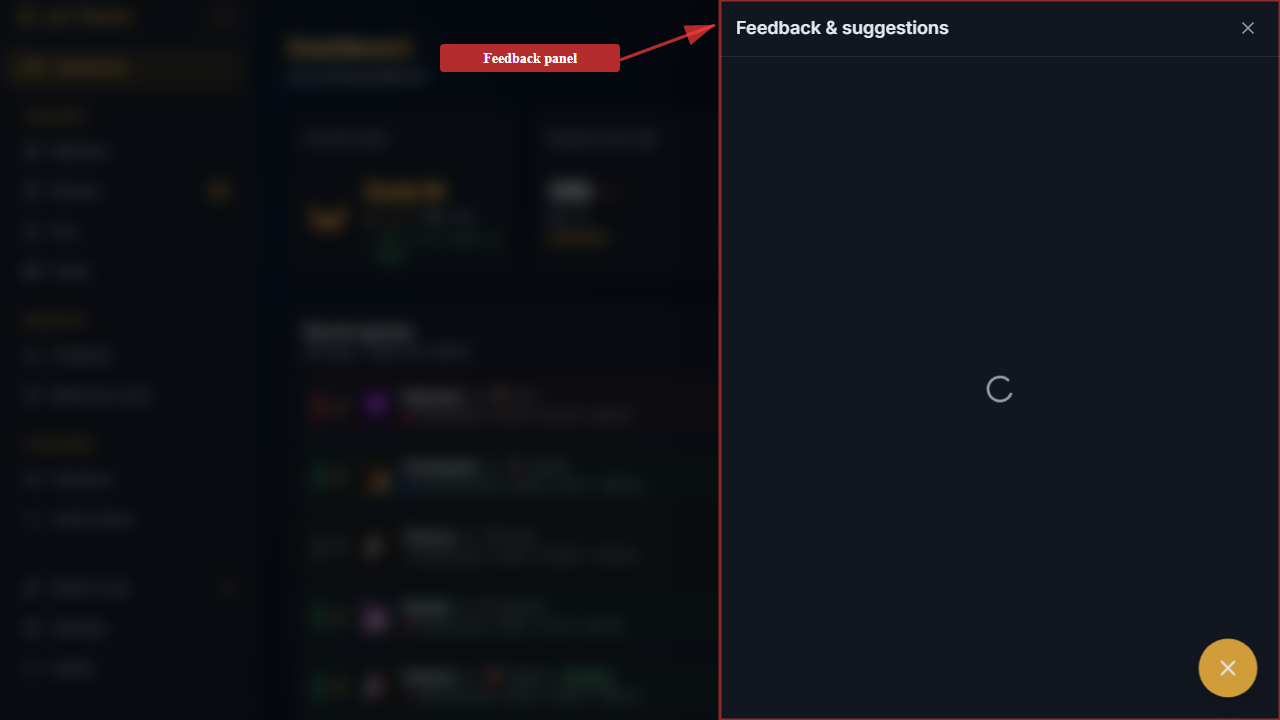
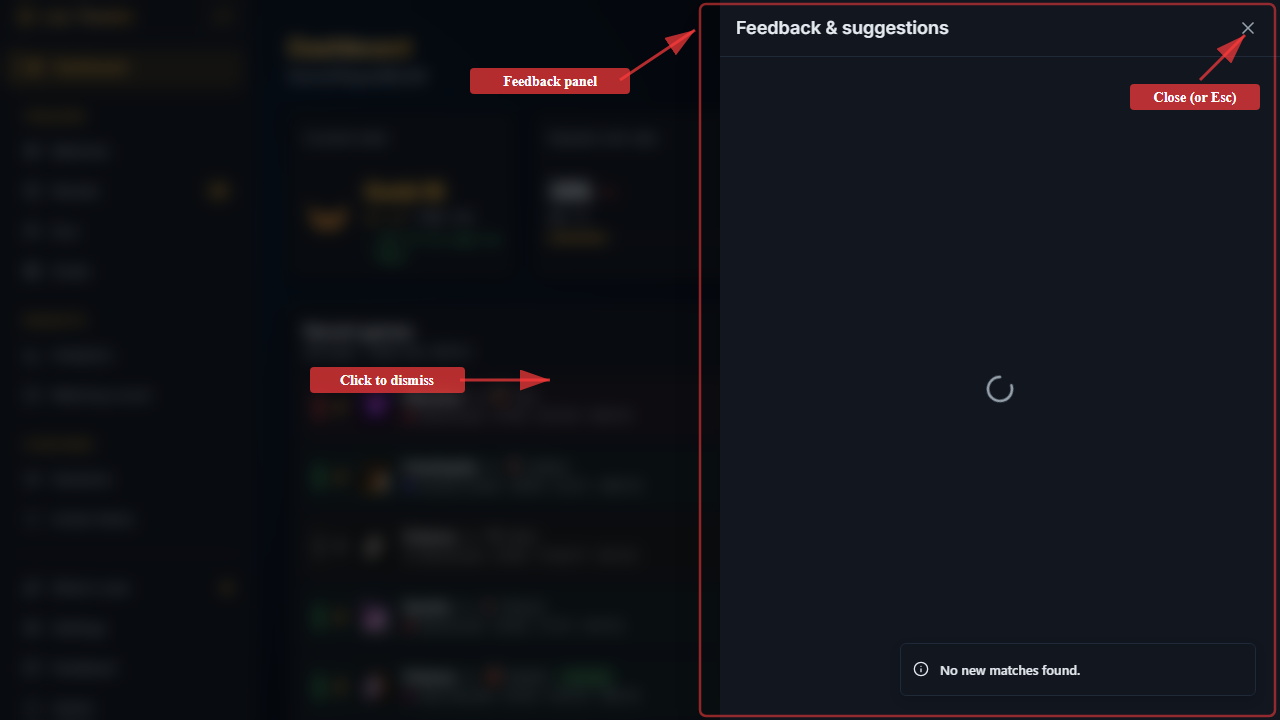
refactor: move feedback trigger to sidebar and update screenshots
Move FeedbackPanel from layout.tsx into AppSidebar as a controlled
component. The feedback trigger is now a sidebar menu item (between
Settings and Admin) instead of a floating button. Update changelog
text and screenshots to reflect the new sidebar-based UI. Fix flaky
SSO smoke test by using waitForRequest instead of a duplicate route
handler.

Changed region(s): [[0.3438, 0.0, 1.0, 1.0], [0.2188, 0.4889, 0.4375, 0.55], [0.7188, 0.9167, 0.8438, 0.9472]]

diff --git a/tests/smoke/feedback-widget.spec.ts b/tests/smoke/feedback-widget.spec.ts
@@ -7,6 +7,7 @@ import { test, expect } from "@playwright/test";
  * data to the Canny board. We intercept the SDK and SSO requests
  * to ensure the integration plumbing works correctly.
  *
+ * The feedback trigger is a sidebar nav item (not a floating button).
  * We block the Canny SDK globally via beforeEach so the external
  * script never prevents the `load` event from firing.
  */
@@ -32,19 +33,19 @@ test.describe("Feedback widget", () => {
     });
   });
 
-  test("floating button is visible on authenticated pages", async ({ page }) => {
+  test("feedback button is visible in sidebar", async ({ page }) => {
     await page.goto("/dashboard");
     await page.getByRole("main").waitFor({ state: "visible" });
 
-    const feedbackButton = page.getByRole("button", { name: /send feedback|enviar sugerencias/i });
+    const feedbackButton = page.getByRole("button", { name: /^feedback$|^sugerencias$/i });
     await expect(feedbackButton).toBeVisible();
   });
 
-  test("clicking the button opens the feedback panel", async ({ page }) => {
+  test("clicking the sidebar button opens the feedback panel", async ({ page }) => {
     await page.goto("/dashboard");
     await page.getByRole("main").waitFor({ state: "visible" });
 
-    const feedbackButton = page.getByRole("button", { name: /send feedback|enviar sugerencias/i });
+    const feedbackButton = page.getByRole("button", { name: /^feedback$|^sugerencias$/i });
     await feedbackButton.click();
 
     const panel = page.getByRole("dialog", {
@@ -57,7 +58,7 @@ test.describe("Feedback widget", () => {
     await page.goto("/dashboard");
     await page.getByRole("main").waitFor({ state: "visible" });
 
-    const feedbackButton = page.getByRole("button", { name: /send feedback|enviar sugerencias/i });
+    const feedbackButton = page.getByRole("button", { name: /^feedback$|^sugerencias$/i });
     await feedbackButton.click();
 
     const panel = page.getByRole("dialog", {
@@ -71,47 +72,40 @@ test.describe("Feedback widget", () => {
     await expect(panel).toHaveClass(/translate-x-full/);
   });
 
-  test("clicking the button again closes the panel", async ({ page }) => {
+  test("panel close button closes the panel", async ({ page }) => {
     await page.goto("/dashboard");
     await page.getByRole("main").waitFor({ state: "visible" });
 
-    const feedbackButton = page.getByRole("button", { name: /send feedback|enviar sugerencias/i });
-
-    // Open
+    const feedbackButton = page.getByRole("button", { name: /^feedback$|^sugerencias$/i });
     await feedbackButton.click();
+
     const panel = page.getByRole("dialog", {
       name: /feedback|sugerencias/i,
     });
     await expect(panel).toBeVisible();
 
-    // Close by clicking button again
-    await feedbackButton.click();
+    // Close via the panel's close button
+    const closeButton = panel.getByRole("button", { name: /close|cerrar/i });
+    await closeButton.click();
+
     await expect(panel).toHaveClass(/translate-x-full/);
   });
 
   test("SSO endpoint is called when panel opens", async ({ page }) => {
-    let ssoCalled = false;
-
-    // Override the SSO route to track calls
-    await page.route("**/api/canny/sso", (route) => {
-      ssoCalled = true;
-      void route.fulfill({
-        status: 200,
-        contentType: "application/json",
-        body: JSON.stringify({ token: "mock-sso-token" }),
-      });
-    });
-
     await page.goto("/dashboard");
     await page.getByRole("main").waitFor({ state: "visible" });
 
-    const feedbackButton = page.getByRole("button", { name: /send feedback|enviar sugerencias/i });
+    // Start waiting for the SSO request before clicking
+    const ssoRequestPromise = page.waitForRequest((req) => req.url().includes("/api/canny/sso"), {
+      timeout: 10000,
+    });
+
+    const feedbackButton = page.getByRole("button", { name: /^feedback$|^sugerencias$/i });
     await feedbackButton.click();
 
-    // Wait a moment for the fetch to happen
-    await page.waitForTimeout(1000);
-
-    expect(ssoCalled).toBe(true);
+    // Wait for the SSO request to be made
+    const ssoRequest = await ssoRequestPromise;
+    expect(ssoRequest.url()).toContain("/api/canny/sso");
   });
 
   test("Canny SDK script is requested when panel opens", async ({ page }) => {
@@ -130,7 +124,7 @@ test.describe("Feedback widget", () => {
     await page.goto("/dashboard");
     await page.getByRole("main").waitFor({ state: "visible" });
 
-    const feedbackButton = page.getByRole("button", { name: /send feedback|enviar sugerencias/i });
+    const feedbackButton = page.getByRole("button", { name: /^feedback$|^sugerencias$/i });
     await feedbackButton.click();
 
     // Wait for SDK to be requested

diff --git a/src/components/feedback-widget.tsx b/src/components/feedback-widget.tsx
@@ -1,6 +1,6 @@
 "use client";
 
-import { MessageSquarePlus, X, Loader2 } from "lucide-react";
+import { X, Loader2 } from "lucide-react";
 import { useTranslations } from "next-intl";
 import { useCallback, useEffect, useRef, useState } from "react";
 
@@ -48,13 +48,16 @@ function loadCannySDK(): Promise<void> {
   });
 }
 
-export function FeedbackWidget() {
+interface FeedbackPanelProps {
+  isOpen: boolean;
+  onClose: () => void;
+}
+
+export function FeedbackPanel({ isOpen, onClose }: FeedbackPanelProps) {
   const t = useTranslations("Feedback");
-  const [isOpen, setIsOpen] = useState(false);
   const [isLoading, setIsLoading] = useState(false);
   const [sdkLoaded, setSdkLoaded] = useState(false);
   const panelRef = useRef<HTMLDivElement>(null);
-  const buttonRef = useRef<HTMLButtonElement>(null);
   const cannyContainerRef = useRef<HTMLDivElement>(null);
 
   // Close on Escape key
@@ -63,33 +66,27 @@ export function FeedbackWidget() {
 
     function handleKeyDown(e: KeyboardEvent) {
       if (e.key === "Escape") {
-        setIsOpen(false);
-        buttonRef.current?.focus();
+        onClose();
       }
     }
 
     document.addEventListener("keydown", handleKeyDown);
     return () => document.removeEventListener("keydown", handleKeyDown);
-  }, [isOpen]);
+  }, [isOpen, onClose]);
 
   // Close on click outside
   useEffect(() => {
     if (!isOpen) return;
 
     function handleClickOutside(e: MouseEvent) {
-      if (
-        panelRef.current &&
-        !panelRef.current.contains(e.target as Node) &&
-        buttonRef.current &&
-        !buttonRef.current.contains(e.target as Node)
-      ) {
-        setIsOpen(false);
+      if (panelRef.current && !panelRef.current.contains(e.target as Node)) {
+        onClose();
       }
     }
 
     document.addEventListener("mousedown", handleClickOutside);
     return () => document.removeEventListener("mousedown", handleClickOutside);
-  }, [isOpen]);
+  }, [isOpen, onClose]);
 
   const renderCannyWidget = useCallback(async () => {
     if (!BOARD_TOKEN) return;
@@ -132,12 +129,9 @@ export function FeedbackWidget() {
     }
   }, [sdkLoaded]);
 
-  const handleToggle = useCallback(() => {
-    const willOpen = !isOpen;
-    setIsOpen(willOpen);
-
-    if (willOpen) {
-      // Render widget after panel opens (need the DOM element to exist)
+  // Render Canny widget when panel opens
+  useEffect(() => {
+    if (isOpen) {
       requestAnimationFrame(() => {
         void renderCannyWidget();
       });
@@ -148,23 +142,6 @@ export function FeedbackWidget() {
 
   return (
     <>
-      {/* Floating button */}
-      <button
-        ref={buttonRef}
-        type="button"
-        onClick={handleToggle}
-        aria-label={t("buttonLabel")}
-        aria-expanded={isOpen}
-        aria-controls="feedback-panel"
-        className="text-gold-foreground fixed right-6 bottom-6 z-[60] flex h-12 w-12 items-center justify-center rounded-full bg-gold shadow-lg transition-all duration-200 hover:scale-105 hover:bg-gold/90 focus-visible:ring-2 focus-visible:ring-gold focus-visible:ring-offset-2 focus-visible:ring-offset-background focus-visible:outline-none md:h-14 md:w-14"
-      >
-        {isOpen ? (
-          <X className="h-5 w-5 md:h-6 md:w-6" />
-        ) : (
-          <MessageSquarePlus className="h-5 w-5 md:h-6 md:w-6" />
-        )}
-      </button>
-
       {/* Backdrop */}
       {isOpen && (
         <div
@@ -189,10 +166,7 @@ export function FeedbackWidget() {
           <h2 className="text-lg font-semibold text-foreground">{t("panelTitle")}</h2>
           <button
             type="button"
-            onClick={() => {
-              setIsOpen(false);
-              buttonRef.current?.focus();
-            }}
+            onClick={onClose}
             aria-label={t("close")}
             className="rounded-md p-1.5 text-muted-foreground transition-colors hover:bg-muted hover:text-foreground focus-visible:ring-2 focus-visible:ring-gold focus-visible:outline-none"
           >
@@ -213,4 +187,9 @@ export function FeedbackWidget() {
       </div>
     </>
   );
+}
+
+/** Returns true if the Canny board token is configured */
+export function isFeedbackEnabled(): boolean {
+  return !!BOARD_TOKEN;
 }

diff --git a/src/components/app-sidebar.tsx b/src/components/app-sidebar.tsx
@@ -17,12 +17,14 @@ import {
   Sparkles,
   Target,
   Shield,
+  MessageSquarePlus,
 } from "lucide-react";
 import { useTranslations } from "next-intl";
 import Link from "next/link";
 import { usePathname } from "next/navigation";
-import { useState, useEffect } from "react";
+import { useState, useEffect, useCallback } from "react";
 
+import { FeedbackPanel, isFeedbackEnabled } from "@/components/feedback-widget";
 import { Logo } from "@/components/logo";
 import { ThemeToggle } from "@/components/theme-toggle";
 import { Avatar, AvatarFallback, AvatarImage } from "@/components/ui/avatar";
@@ -135,7 +137,8 @@ function SidebarContent({
   reviewCounts,
   latestChangelogVersion,
   onNavClick,
-}: SidebarProps & { onNavClick?: () => void }) {
+  onFeedbackClick,
+}: SidebarProps & { onNavClick?: () => void; onFeedbackClick?: () => void }) {
   const t = useTranslations("Sidebar");
   const isLinked = !!user.isRiotLinked;
   const { isSyncing, handleSync } = useSyncMatches(isLinked);
@@ -247,6 +250,19 @@ function SidebarContent({
           {bottomNavWithDot.map((item) => (
             <NavLink key={item.href} item={item} onClick={onNavClick} />
           ))}
+          {isFeedbackEnabled() && (
+            <button
+              type="button"
+              onClick={() => {
+                onFeedbackClick?.();
+                onNavClick?.();
+              }}
+              className="flex w-full items-center gap-3 rounded-lg px-3 py-2 text-sm text-muted-foreground transition-all hover:bg-accent hover:text-accent-foreground"
+            >
+              <MessageSquarePlus className="h-4 w-4 shrink-0" />
+              <span className="flex-1 text-left">{t("navFeedback")}</span>
+            </button>
+          )}
           {adminNav.map((item) => (
             <NavLink key={item.href} item={item} onClick={onNavClick} />
           ))}
@@ -291,6 +307,9 @@ function SidebarContent({
 
 export function AppSidebar({ user, reviewCounts, latestChangelogVersion }: SidebarProps) {
   const [mobileOpen, setMobileOpen] = useState(false);
+  const [feedbackOpen, setFeedbackOpen] = useState(false);
+
+  const handleFeedbackClose = useCallback(() => setFeedbackOpen(false), []);
 
   return (
     <>
@@ -327,8 +346,12 @@ export function AppSidebar({ user, reviewCounts, latestChangelogVersion }: Sideb
           reviewCounts={reviewCounts}
           latestChangelogVersion={latestChangelogVersion}
           onNavClick={() => setMobileOpen(false)}
+          onFeedbackClick={() => setFeedbackOpen(true)}
         />
       </aside>
+
+      {/* Feedback panel */}
+      <FeedbackPanel isOpen={feedbackOpen} onClose={handleFeedbackClose} />
     </>
   );
 }

diff --git a/src/app/(app)/layout.tsx b/src/app/(app)/layout.tsx
@@ -6,7 +6,6 @@ import { connection } from "next/server";
 import { Suspense } from "react";
 
 import { AppSidebar } from "@/components/app-sidebar";
-import { FeedbackWidget } from "@/components/feedback-widget";
 import { Toaster } from "@/components/ui/sonner";
 import { db } from "@/db";
 import { matches } from "@/db/schema";
@@ -84,7 +83,6 @@ export default function AppLayout({ children }: { children: React.ReactNode }) {
             </main>
           </div>
           <Toaster />
-          <FeedbackWidget />
         </LocalizedContent>
       </Suspense>
     </AuthProvider>
